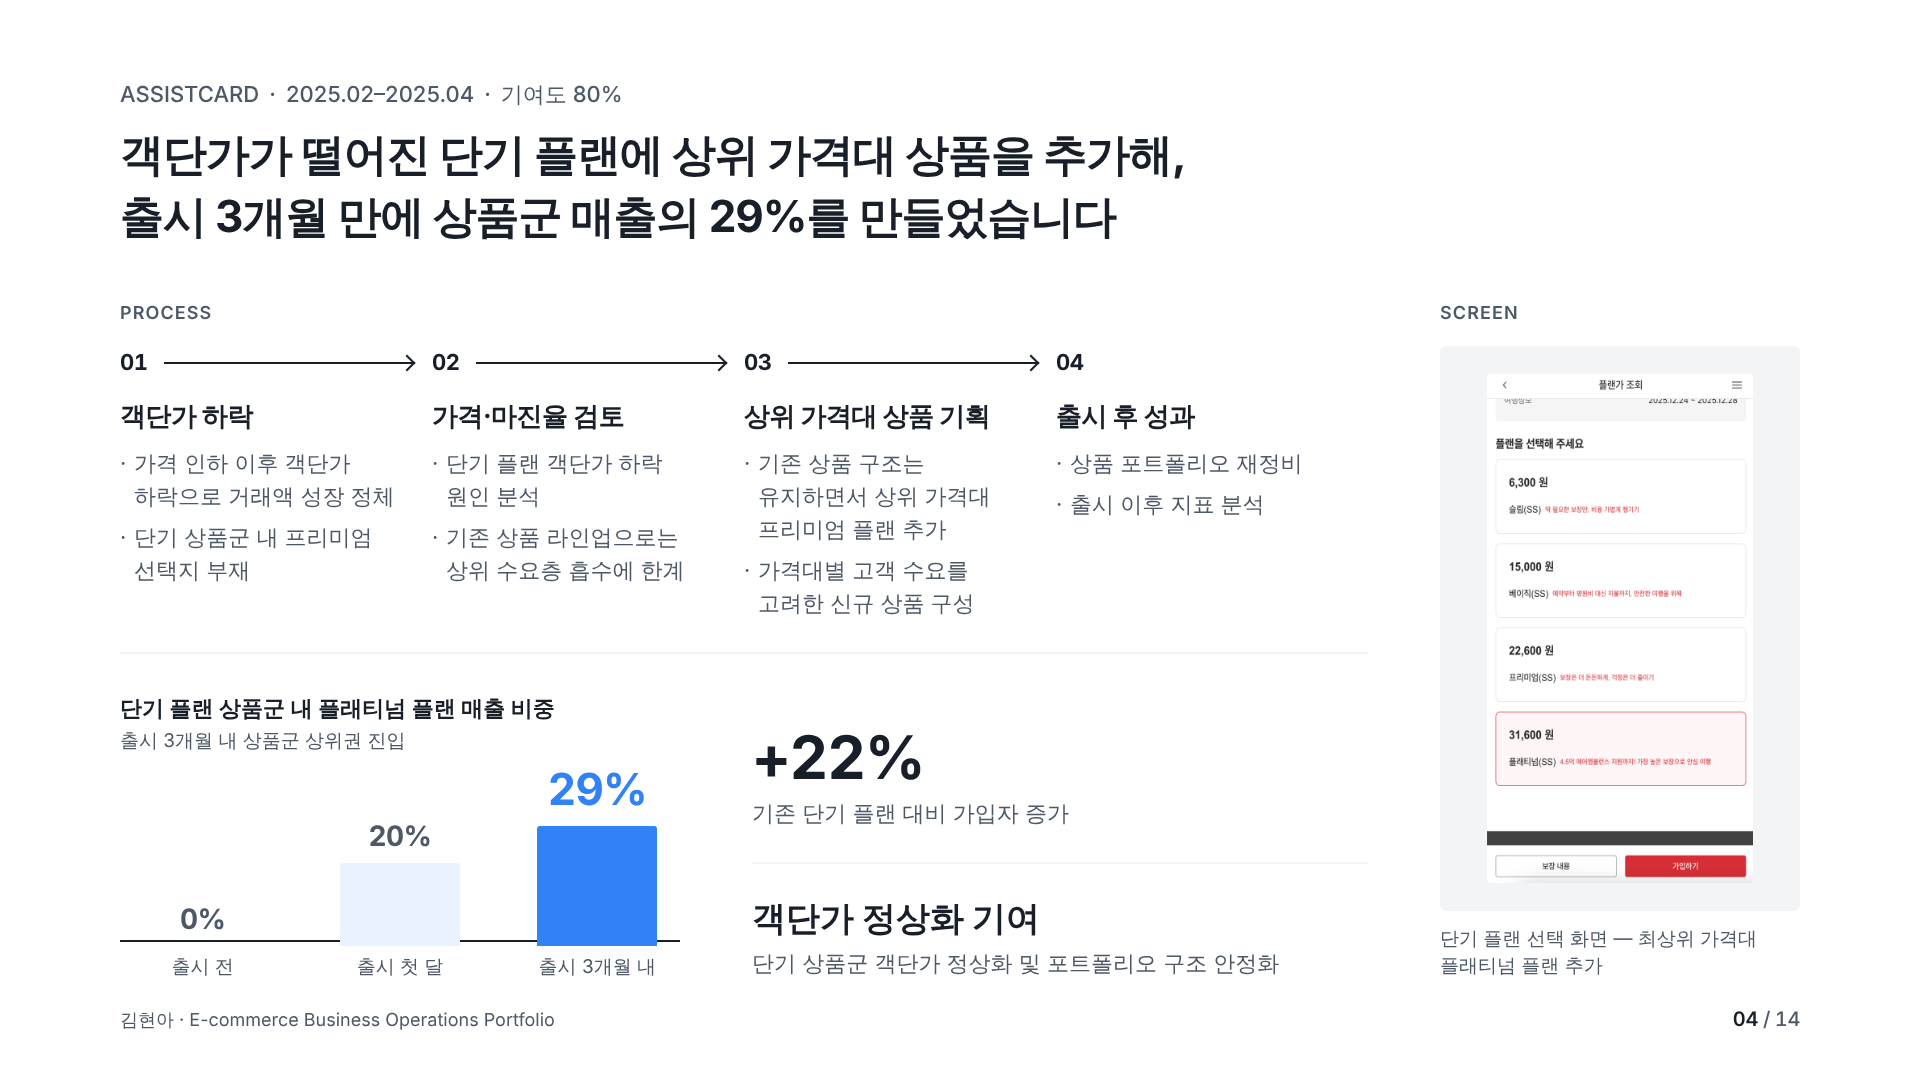
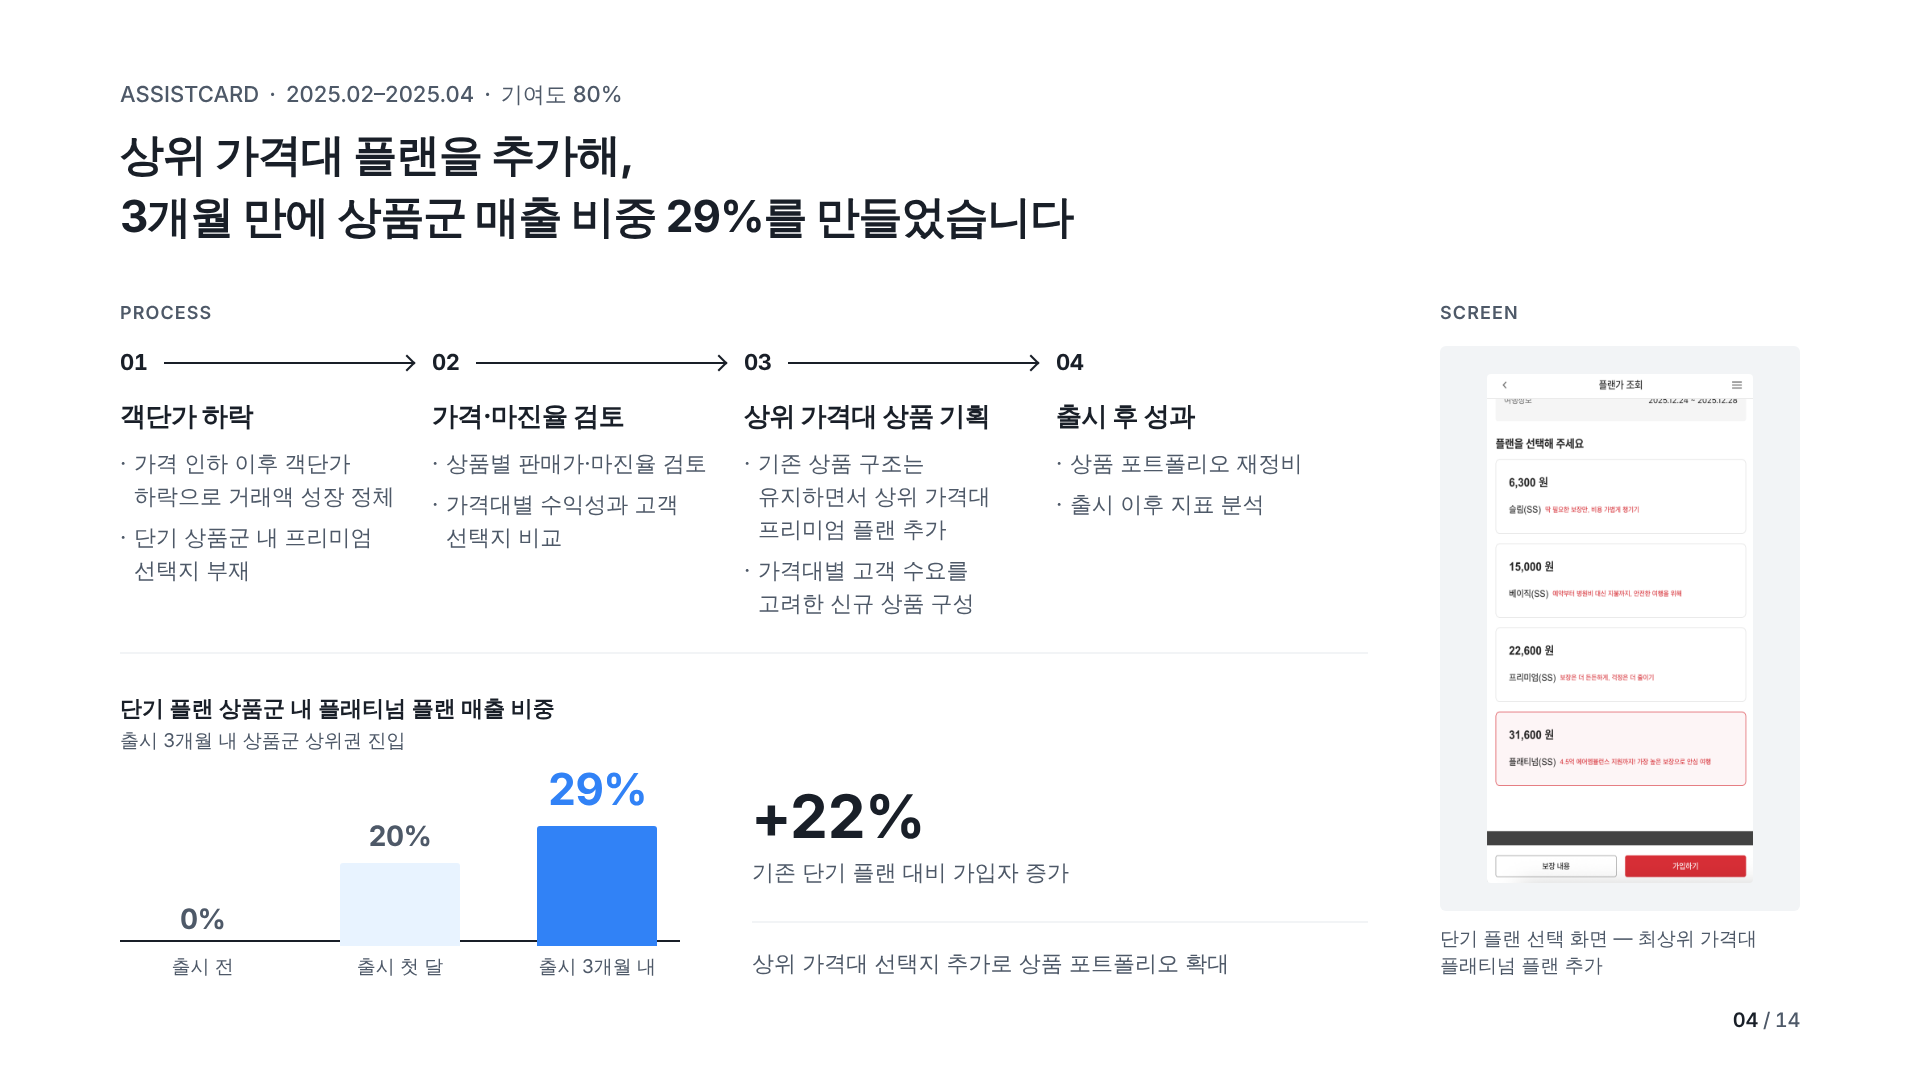
Revise slides 04 and 08 per design feedback
04: shorter title, Process 02 copy, +22% as the single KPI with the
portfolio note as supporting text. 08: lighter Before→After layout with
accent on key changes only, 약 2배 as the lead KPI and brand cases grouped
as secondary. Remove the footer label, keep page numbers only.

Claude-Session: https://claude.ai/code/session_01H7sQChGjdpcD85JmhYKMNB

diff --git a/index.html b/index.html
@@ -84,7 +84,7 @@ p, li, h2, h3, h4 { text-wrap: pretty; }
 /* ---------- 공통: 푸터 ---------- */
 .slide-foot {
   position: absolute; left: var(--pad-x); right: var(--pad-x); bottom: 48px;
-  display: flex; justify-content: space-between; align-items: baseline;
+  display: flex; justify-content: flex-end; align-items: baseline;
   font-size: 18px; color: var(--text-body);
 }
 .page { font-size: 20px; font-weight: 600; color: var(--text-main); }
@@ -153,7 +153,7 @@ p, li, h2, h3, h4 { text-wrap: pretty; }
 .kpis { display: flex; flex-direction: column; justify-content: flex-end; }
 .kpi + .kpi { margin-top: 32px; padding-top: 32px; border-top: var(--line); }
 .kpi-value { font-size: 60px; font-weight: 700; line-height: 1.1; }
-.kpi-value.is-text { font-size: 34px; line-height: 1.3; }
+.kpi-note { margin-top: 32px; padding-top: 24px; border-top: var(--line); font-size: var(--fs-body); color: var(--text-body); line-height: 1.5; }
 .kpi-desc { font-size: var(--fs-body); color: var(--text-body); margin-top: 8px; line-height: 1.45; }
 
 /* =========================================================
@@ -164,32 +164,33 @@ p, li, h2, h3, h4 { text-wrap: pretty; }
 
 .ba {
   display: grid;
-  grid-template-columns: 128px 1fr 64px 1fr;
+  grid-template-columns: 1fr 72px 1.1fr;
+  align-items: center;
 }
-.ba > div { text-wrap: balance; padding: 30px 0; border-top: var(--line); display: flex; align-items: center; }
-.ba .ba-head { border-top: 0; padding-top: 0; padding-bottom: 20px; flex-direction: column; align-items: flex-start; justify-content: flex-end; }
-.ba .after { background: var(--accent-light); padding-left: 28px; padding-right: 28px; }
-.ba .ba-head.after { padding-top: 28px; border-radius: var(--radius) var(--radius) 0 0; }
-.ba .after.is-last { border-radius: 0 0 var(--radius) var(--radius); }
+.ba > div { text-wrap: balance; padding: 22px 0; }
+.ba .ba-head { padding: 22px 0 20px; margin-bottom: 14px; border-bottom: var(--line); align-self: stretch; display: flex; flex-direction: column; justify-content: flex-end; }
+.ba .ba-head.after { padding: 22px 28px 20px; background: var(--accent-light); border-radius: var(--radius); border-bottom: 0; }
 .ba-tag { font-size: var(--fs-label); font-weight: 600; letter-spacing: 0.06em; color: var(--text-body); margin-bottom: 10px; }
 .ba-name { font-size: 30px; font-weight: 700; letter-spacing: -0.02em; }
 .ba-name .since { font-size: var(--fs-caption); font-weight: 500; color: var(--text-body); margin-left: 10px; letter-spacing: 0; }
 .ba-head.before .ba-name { color: var(--text-body); }
-.ba-key { font-size: var(--fs-caption); font-weight: 600; color: var(--text-body); }
 .ba-before { font-size: var(--fs-body); color: var(--text-body); line-height: 1.5; padding-right: 24px !important; }
-.ba-arrow { justify-content: center; font-size: 28px; color: var(--text-main); }
-.ba-after { font-size: 24px; font-weight: 600; line-height: 1.45; color: var(--text-main); }
+.ba-arrow { text-align: center; font-size: 28px; color: var(--text-body); }
+.ba-after { font-size: 24px; font-weight: 700; line-height: 1.45; color: var(--text-main); padding-left: 28px !important; }
+.ba-after em { font-style: normal; color: var(--accent); }
 .ba-empty { color: var(--text-body); }
 
 .result-08 {
   margin-top: auto; padding-top: 40px; border-top: var(--line);
-  display: grid; grid-template-columns: 300px 1fr; column-gap: 64px;
+  display: grid; grid-template-columns: 340px 1fr; column-gap: 56px; align-items: end;
 }
-.r-launch .kpi-value { font-size: 72px; color: var(--accent); }
-.r-cases h4 { font-size: var(--fs-h3); font-weight: 700; line-height: 1.4; letter-spacing: -0.02em; margin-bottom: 18px; }
-.cases { display: grid; grid-template-columns: repeat(3, auto); justify-content: start; column-gap: 56px; }
-.case-val { font-size: 40px; font-weight: 700; line-height: 1.15; }
-.case-name { font-size: var(--fs-body); color: var(--text-body); margin-top: 6px; }
+.r-launch .kpi-value { font-size: 88px; color: var(--accent); line-height: 1.05; }
+.r-launch .kpi-desc { font-size: 24px; font-weight: 600; color: var(--text-main); margin-top: 12px; }
+.r-cases { background: var(--surface); border-radius: var(--radius); padding: 24px 32px 26px; }
+.r-cases h4 { font-size: var(--fs-body); font-weight: 600; color: var(--text-body); line-height: 1.4; margin-bottom: 14px; }
+.cases { display: grid; grid-template-columns: repeat(3, auto); justify-content: start; column-gap: 48px; }
+.case-val { font-size: 34px; font-weight: 700; line-height: 1.15; }
+.case-name { font-size: var(--fs-caption); color: var(--text-body); margin-top: 4px; }
 
 .s08 .screens { flex: 1; display: grid; grid-template-columns: 1fr 1fr; column-gap: 20px; min-height: 0; }
 .s08 .screen-frame { padding: 20px; }
@@ -212,7 +213,7 @@ body:hover .hint { opacity: .6; }
   <section class="slide s04" data-page="04">
     <header class="slide-head">
       <p class="meta">ASSISTCARD<span class="sep">·</span>2025.02–2025.04<span class="sep">·</span>기여도 80%</p>
-      <h2 class="title">객단가가 떨어진 단기 플랜에 상위 가격대 상품을 추가해,<br>출시 3개월 만에 상품군 매출의 29%를 만들었습니다</h2>
+      <h2 class="title">상위 가격대 플랜을 추가해,<br>3개월 만에 상품군 매출 비중 29%를 만들었습니다</h2>
     </header>
 
     <div class="slide-body">
@@ -231,8 +232,8 @@ body:hover .hint { opacity: .6; }
             <div class="step-track"><span class="step-no num">02</span></div>
             <h3>가격·마진율 검토</h3>
             <ul>
-              <li>단기 플랜 객단가 하락 원인 분석</li>
-              <li>기존 상품 라인업으로는 상위 수요층 흡수에 한계</li>
+              <li>상품별 판매가·마진율 검토</li>
+              <li>가격대별 수익성과 고객 선택지 비교</li>
             </ul>
           </li>
           <li class="step">
@@ -270,10 +271,7 @@ body:hover .hint { opacity: .6; }
               <p class="kpi-value num">+22%</p>
               <p class="kpi-desc">기존 단기 플랜 대비 가입자 증가</p>
             </div>
-            <div class="kpi">
-              <p class="kpi-value is-text">객단가 정상화 기여</p>
-              <p class="kpi-desc">단기 상품군 객단가 정상화 및 포트폴리오 구조 안정화</p>
-            </div>
+            <p class="kpi-note">상위 가격대 선택지 추가로 상품 포트폴리오 확대</p>
           </div>
         </div>
       </div>
@@ -288,7 +286,6 @@ body:hover .hint { opacity: .6; }
     </div>
 
     <footer class="slide-foot">
-      <span>김현아 · E-commerce Business Operations Portfolio</span>
       <span class="page num">04 <span class="total">/ 14</span></span>
     </footer>
   </section>
@@ -306,7 +303,6 @@ body:hover .hint { opacity: .6; }
       <div class="main">
         <div class="ba">
           <!-- 헤더 -->
-          <div class="ba-head"></div>
           <div class="ba-head before">
             <span class="ba-tag">BEFORE</span>
             <span class="ba-name">ㅎㅎ특가<span class="since num">2020.01–</span></span>
@@ -317,23 +313,18 @@ body:hover .hint { opacity: .6; }
             <span class="ba-name">브랜드데이<span class="since num">2023.08–</span></span>
           </div>
 
-          <!-- 행 1 -->
-          <div class="ba-key">노출</div>
+          <!-- 행: Before → After (em = 핵심 변화) -->
           <div class="ba-before">장기 운영으로 브랜드 단독 노출 효과 감소</div>
           <div class="ba-arrow">→</div>
-          <div class="ba-after after">브랜드 집중형 단독 포맷</div>
+          <div class="ba-after"><em>브랜드 집중형</em> 단독 포맷</div>
 
-          <!-- 행 2 -->
-          <div class="ba-key">혜택 메시지</div>
           <div class="ba-before">특가 중심이라 브랜드 메시지 전달 한계</div>
           <div class="ba-arrow">→</div>
-          <div class="ba-after after">할인쿠폰 중심으로 혜택 메시지 명확화</div>
+          <div class="ba-after"><em>할인쿠폰 중심</em>으로 혜택 메시지 명확화</div>
 
-          <!-- 행 3 -->
-          <div class="ba-key">쿠폰 비용</div>
           <div class="ba-before ba-empty">—</div>
           <div class="ba-arrow">→</div>
-          <div class="ba-after after is-last">수익률을 고려한 쿠폰 비용 구조 설계</div>
+          <div class="ba-after"><em>수익률</em>을 고려한 쿠폰 비용 구조 설계</div>
         </div>
 
         <div class="result-08">
@@ -343,7 +334,6 @@ body:hover .hint { opacity: .6; }
             <p class="kpi-desc">브랜드데이 런칭 초기 매출</p>
           </div>
           <div class="r-cases">
-            <p class="label">&nbsp;</p>
             <h4>브랜드 단독 프로모션 운영 브랜드 거래액 성장 사례</h4>
             <div class="cases">
               <div><p class="case-val num">+505%</p><p class="case-name">랭킹닭컴</p></div>
@@ -376,7 +366,6 @@ body:hover .hint { opacity: .6; }
     </div>
 
     <footer class="slide-foot">
-      <span>김현아 · E-commerce Business Operations Portfolio</span>
       <span class="page num">08 <span class="total">/ 14</span></span>
     </footer>
   </section>
